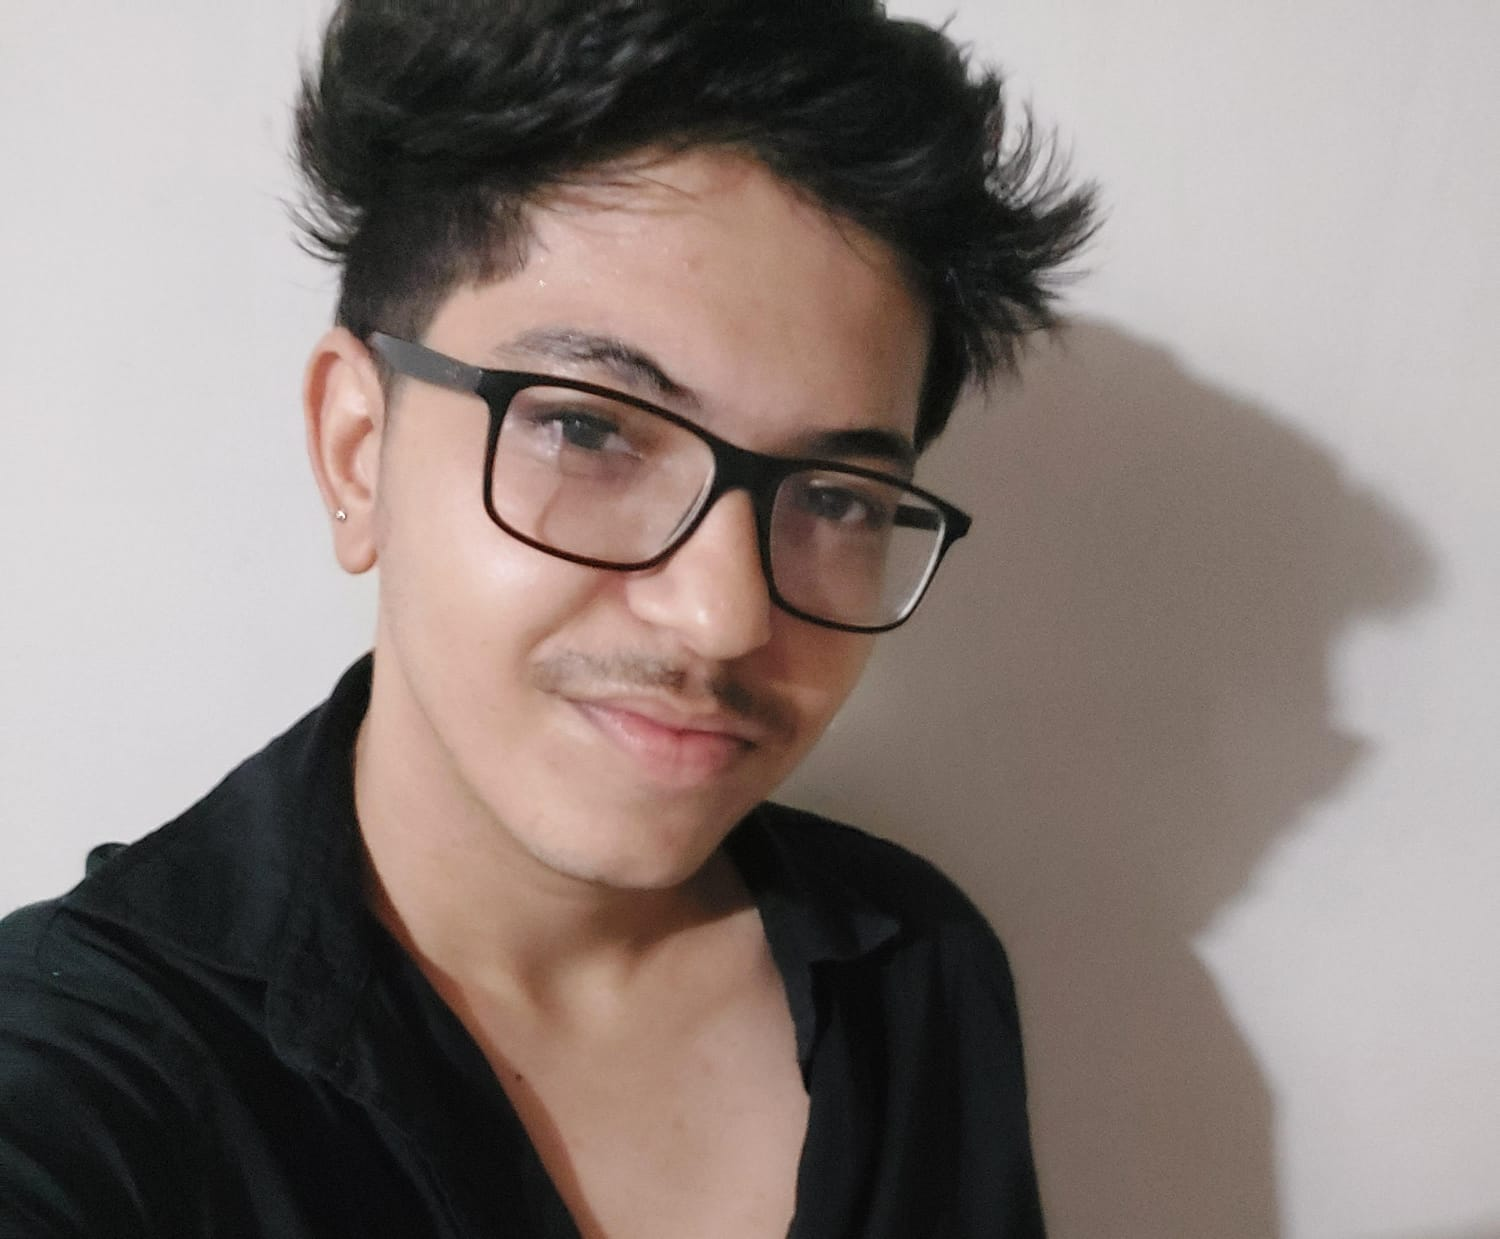
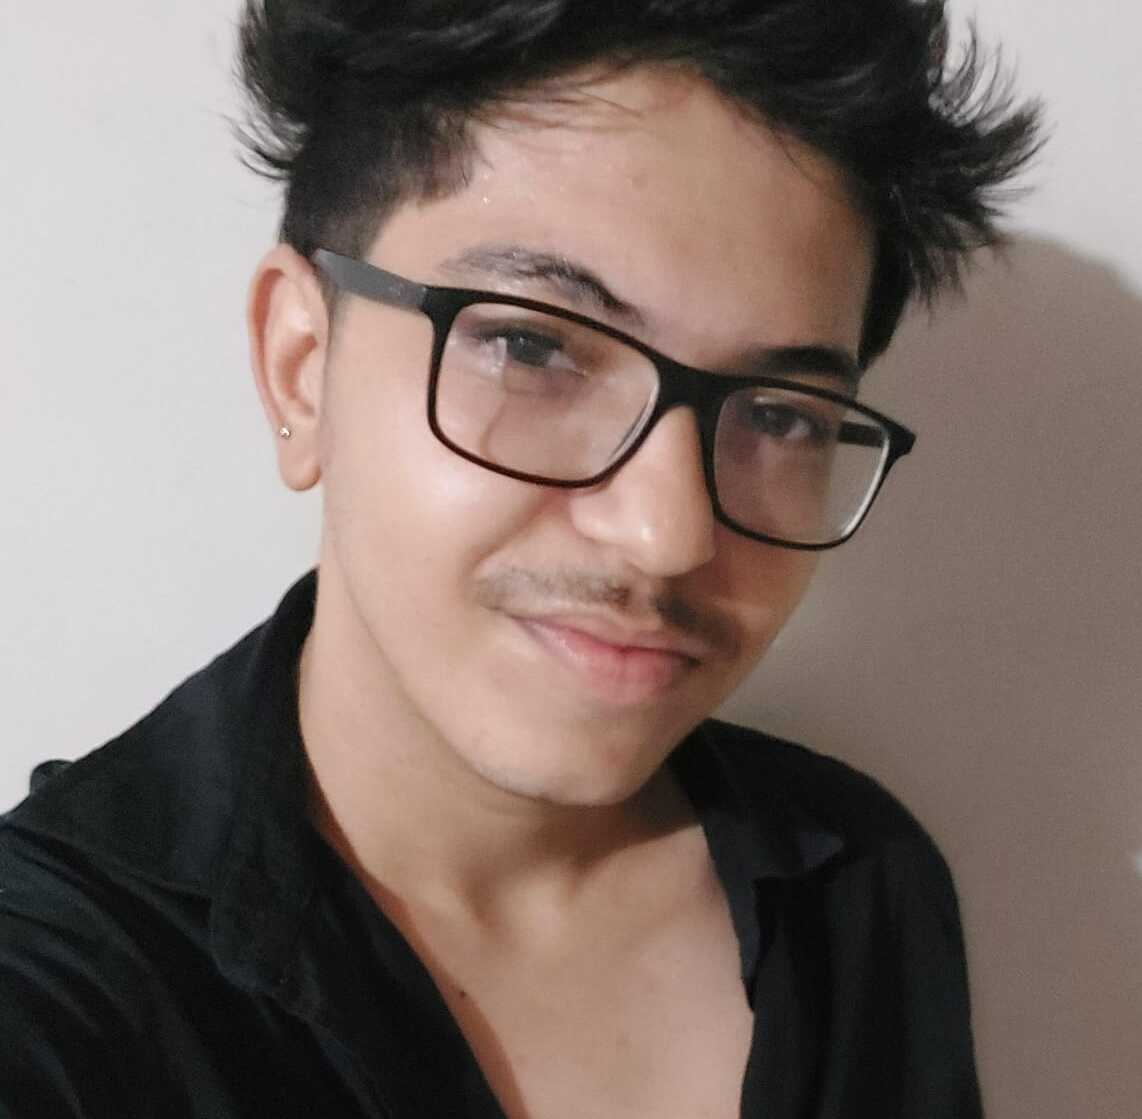
feat: modificando cores dos temas e ajustando design do carousel.

diff --git a/personal-portfolio/src/components/Card/index.tsx b/personal-portfolio/src/components/Card/index.tsx
@@ -1,5 +1,6 @@
 import styles from "./styles.module.scss";
 import Image from "next/image";
+import { FcMultipleDevices } from "react-icons/fc";
 
 interface Props {
   type:
@@ -12,27 +13,25 @@ interface Props {
 }
 
 export const Card = ({ type }: Props) => {
-
-  const renderTextContentByCase = () =>  {
+  const renderTextContentByCase = () => {
     let component;
 
     switch (type) {
       case "userExperience":
-        return component = <p>Experiência do Usuário</p>;
+        return (component = <p>Experiência do Usuário</p>);
       case "devWeb":
-        return component = <p>Desenvolvimento Web</p>;
+        return (component = <p>Desenvolvimento Web</p>);
       case "responsiveLayout":
-        return component = <p>Design Responsivo</p>;
+        return (component = <p>Design Responsivo</p>);
       case "devMobile":
-        return component = <p>Desenvolvimento Mobile</p>;
+        return (component = <p>Desenvolvimento Mobile</p>);
       case "innovation":
-        return component = <p>Inovação Tecnológica</p>;
+        return (component = <p>Inovação Tecnológica</p>);
       case "api":
-        return component = <p>Conexão com Banco de Dados</p>;
+        return (component = <p>Conexão com Banco de Dados</p>);
       default:
-        return component = <p>Default</p>;
+        return (component = <p>Default</p>);
     }
-
   };
 
   const getImagePathByCase = () =>  {
@@ -56,6 +55,26 @@ export const Card = ({ type }: Props) => {
     }
 
   };
+  // const getImagePathByCase = () => {
+  //   let component;
+
+  //   switch (type) {
+  //     case "userExperience":
+  //       return (component = "/ui.png");
+  //     case "devWeb":
+  //       return (component = "/web.png");
+  //     case "responsiveLayout":
+  //       return (component = "/responsivo.png");
+  //     case "devMobile":
+  //       return (component = "/mobile.png");
+  //     case "innovation":
+  //       return (component = "/inovação.png");
+  //     case "api":
+  //       return (component = "/api.png");
+  //     default:
+  //       return (component = "null");
+  //   }
+  // };
 
   return (
     <div className={styles.card}>
@@ -67,12 +86,21 @@ export const Card = ({ type }: Props) => {
           borderRadius: "inherit",
         }}
       >
-        <Image
-          src={getImagePathByCase()}
-          alt="Descrição da imagem"
-          layout="fill"
-          objectFit="contain"
-        />
+        <div
+          style={{
+            display: "flex",
+            alignItems: "flex-end",
+            paddingTop: 20,
+          }}
+        >
+          <Image
+            src={getImagePathByCase()}
+            alt="Descrição da imagem"
+            objectFit="contain"
+            height={60}
+            width={60}
+          />
+        </div>
       </div>
       {renderTextContentByCase()}
     </div>

diff --git a/personal-portfolio/src/components/TellMeSection/index.tsx b/personal-portfolio/src/components/TellMeSection/index.tsx
@@ -13,8 +13,12 @@ const TellMeSection = () => {
         </div>
         <p className={styles.text}>Entre em contato comigo!</p>
         <div className={styles.buttonsContainer}>
-     
-          <a href="mailto:felippe.luisdev@gmail.com" target="blank" className={styles.buttonEmail}>
+          <a
+            href="mailto:felippe.luisdev@gmail.com"
+            rel="noopener noreferrer"
+            target="blank"
+            className={styles.buttonEmail}
+          >
             <Button color="secondary">
               <MdOutlineEmail
                 style={{ marginRight: "6%" }}
@@ -24,7 +28,11 @@ const TellMeSection = () => {
               <p className={styles.buttonText}>E-mail</p>
             </Button>
           </a>
-          <a href="https://www.linkedin.com/in/luis-felippe-67b033210/" target="blank" className={styles.buttonLinkedin}>
+          <a
+            href="https://www.linkedin.com/in/luis-felippe-67b033210/"
+            target="blank"
+            className={styles.buttonLinkedin}
+          >
             <Button color="primary">
               <CiLinkedin
                 style={{ marginRight: "4%" }}

diff --git a/personal-portfolio/src/components/PresentationContainer/index.tsx b/personal-portfolio/src/components/PresentationContainer/index.tsx
@@ -1,7 +1,7 @@
 import Image from "next/image";
 import styles from "./styles.module.scss";
 import { Button } from "../Button";
-import Link from 'next/link';
+import Link from "next/link";
 
 import { Avatar } from "flowbite-react";
 
@@ -28,14 +28,12 @@ export const PresentationContainer = () => {
               }}
             >
               <Image
-                src="/eu.jpg"
+                src="/eu.jpeg"
                 alt="Descrição da imagem"
                 layout="fill"
                 objectFit="cover"
               />
-
             </div>
-     
           </div>
           <button className={styles.fixedButton}>
             <p className={styles.myButton}>Bem vindo</p>

diff --git a/personal-portfolio/src/components/Card/styles.module.scss b/personal-portfolio/src/components/Card/styles.module.scss
@@ -4,22 +4,27 @@
     display: flex;
     justify-content: center;
     align-items: center;
-    padding: 5%;
+    padding: 20%;
     flex-direction: row;
-    gap: 1%;
+
 }
 
 .card p {
     text-align: center;
-    font-size: 1.3rem;
+    font-size: 1.2rem;
     font-weight: 600;
     flex: 1;
-    color: $text;
+    color: rgb(75, 75, 75);
+    margin-left: 5%;
+    margin-top: 5%;
 }
 
 .imageContainer{
-    height: 80px;
-    width: 80px;
+
+
+    display: flex;
+    align-items: center;
+    justify-content: center;
 }
 
 @media (max-width: 670px){
@@ -43,4 +48,9 @@
         font-weight: 800;
     }
     
+}
+
+.icon{
+    width: 70px;
+    height: 70px;
 }

diff --git a/personal-portfolio/src/themes/index.scss b/personal-portfolio/src/themes/index.scss
@@ -1,8 +1,12 @@
 $primary: rgb(0, 0, 0);
 $text: rgba(0, 0, 0, 0.822);
-// $background-900: radial-gradient(73% 147%, #EADFDF 59%, #ECE2DF 100%), radial-gradient(91% 146%, rgba(255,255,255,0.50) 47%, rgba(0,0,0,0.50) 100%);
+$background-900: radial-gradient(73% 147%, #fcf7ec 59%, #ECE2DF 100%), radial-gradient(91% 146%, rgba(255,255,255,0.50) 47%, rgba(0,0,0,0.50) 100%);
 
-$background-900: linear-gradient(120deg, #fdfbfb 0%, #ebedee 100%);
+// $background-900: linear-gradient(120deg, #fdfbfb 0%, #ebedee 100%);
+// $background-900: #fffbfe;;
+
+
+// $background-200: white;
 $background-200: white;
 $blend-mode: screen;
 

diff --git a/personal-portfolio/src/components/TellMeSection/styles.module.scss b/personal-portfolio/src/components/TellMeSection/styles.module.scss
@@ -62,8 +62,9 @@
     font-weight: 800;
     width: 100%;
     text-align: center;
-
+    
     @media (max-width: 1000px) {
+        width: 80%;
         font-size: 2rem;
     }
 
